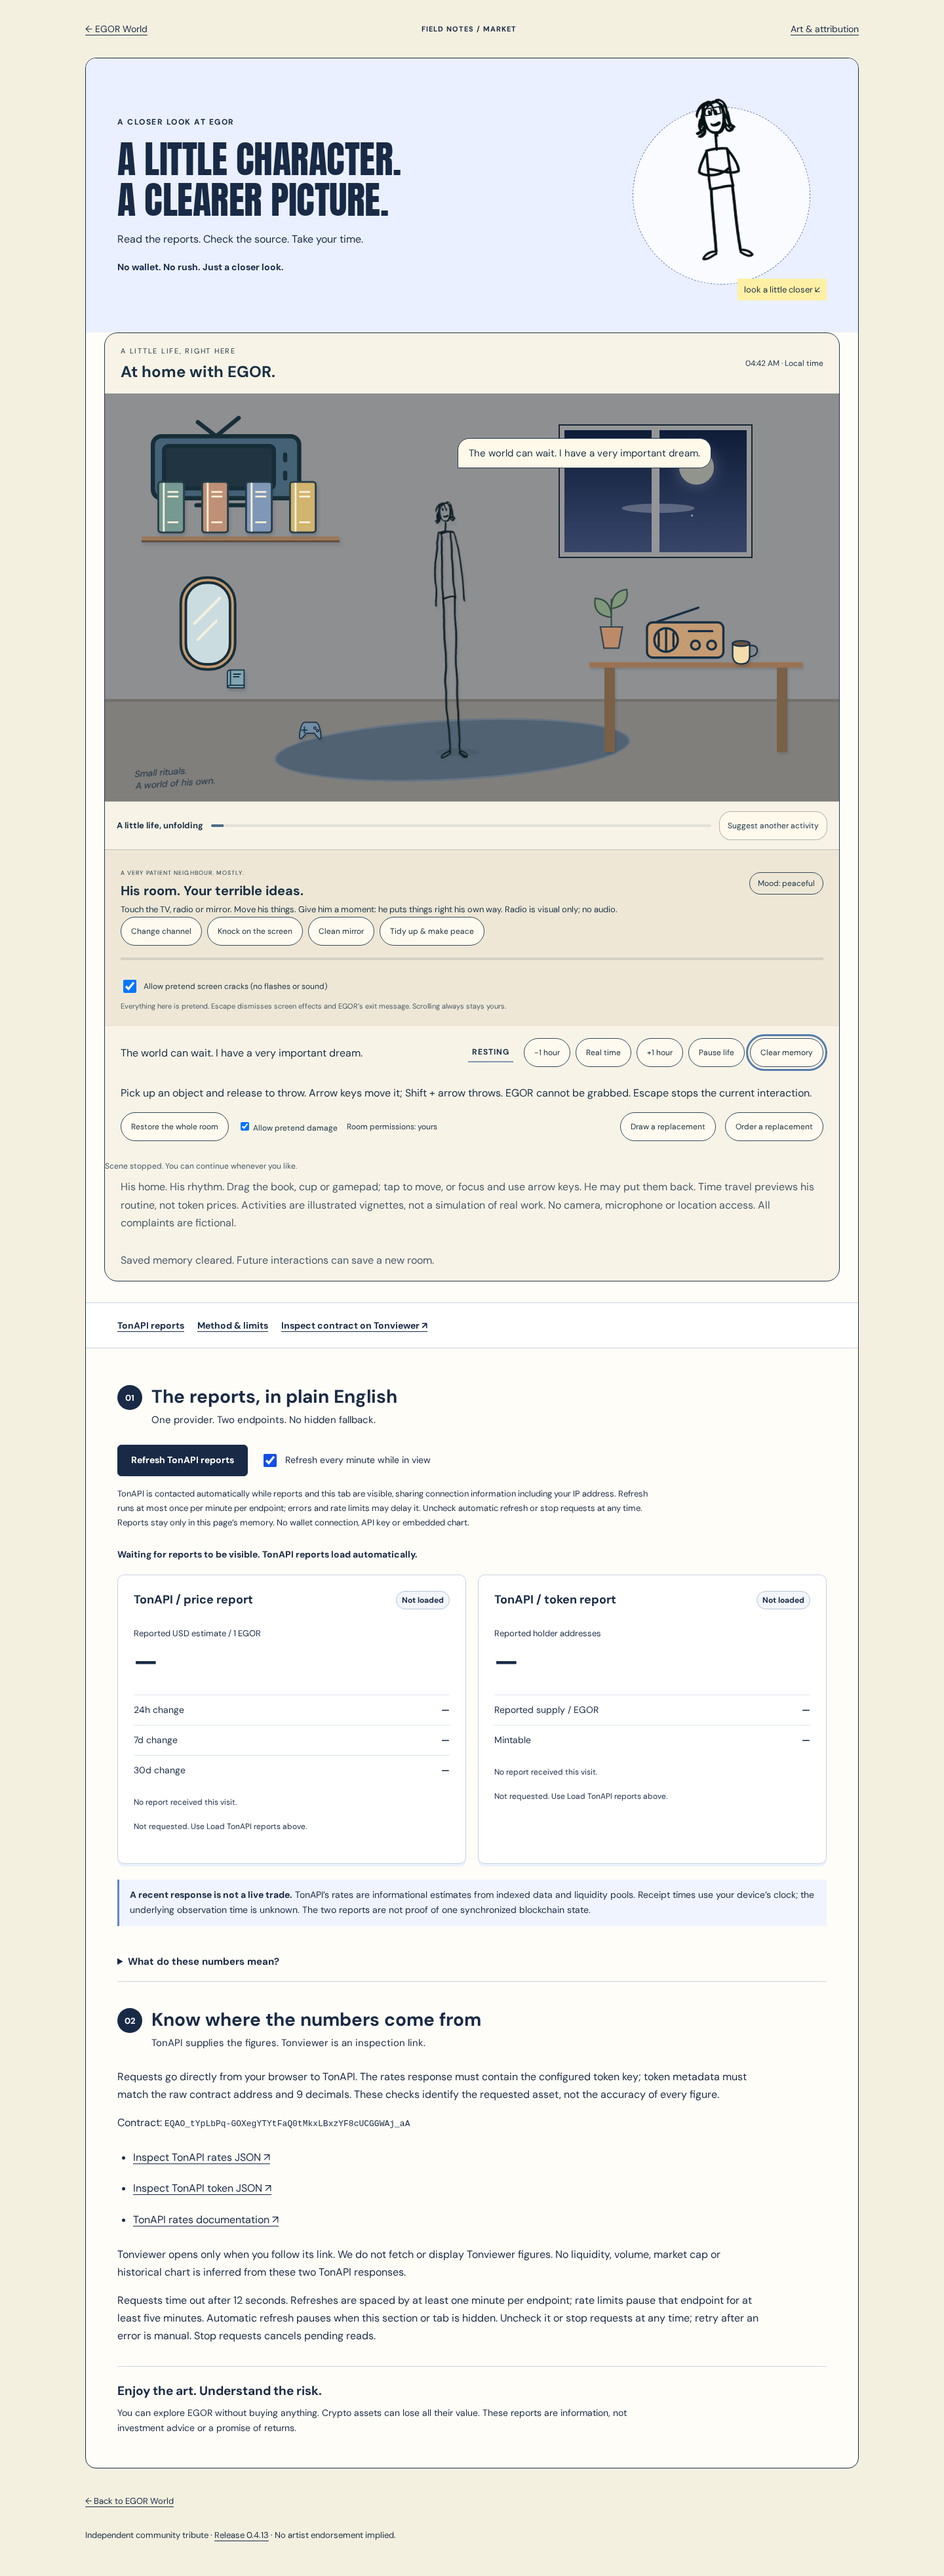
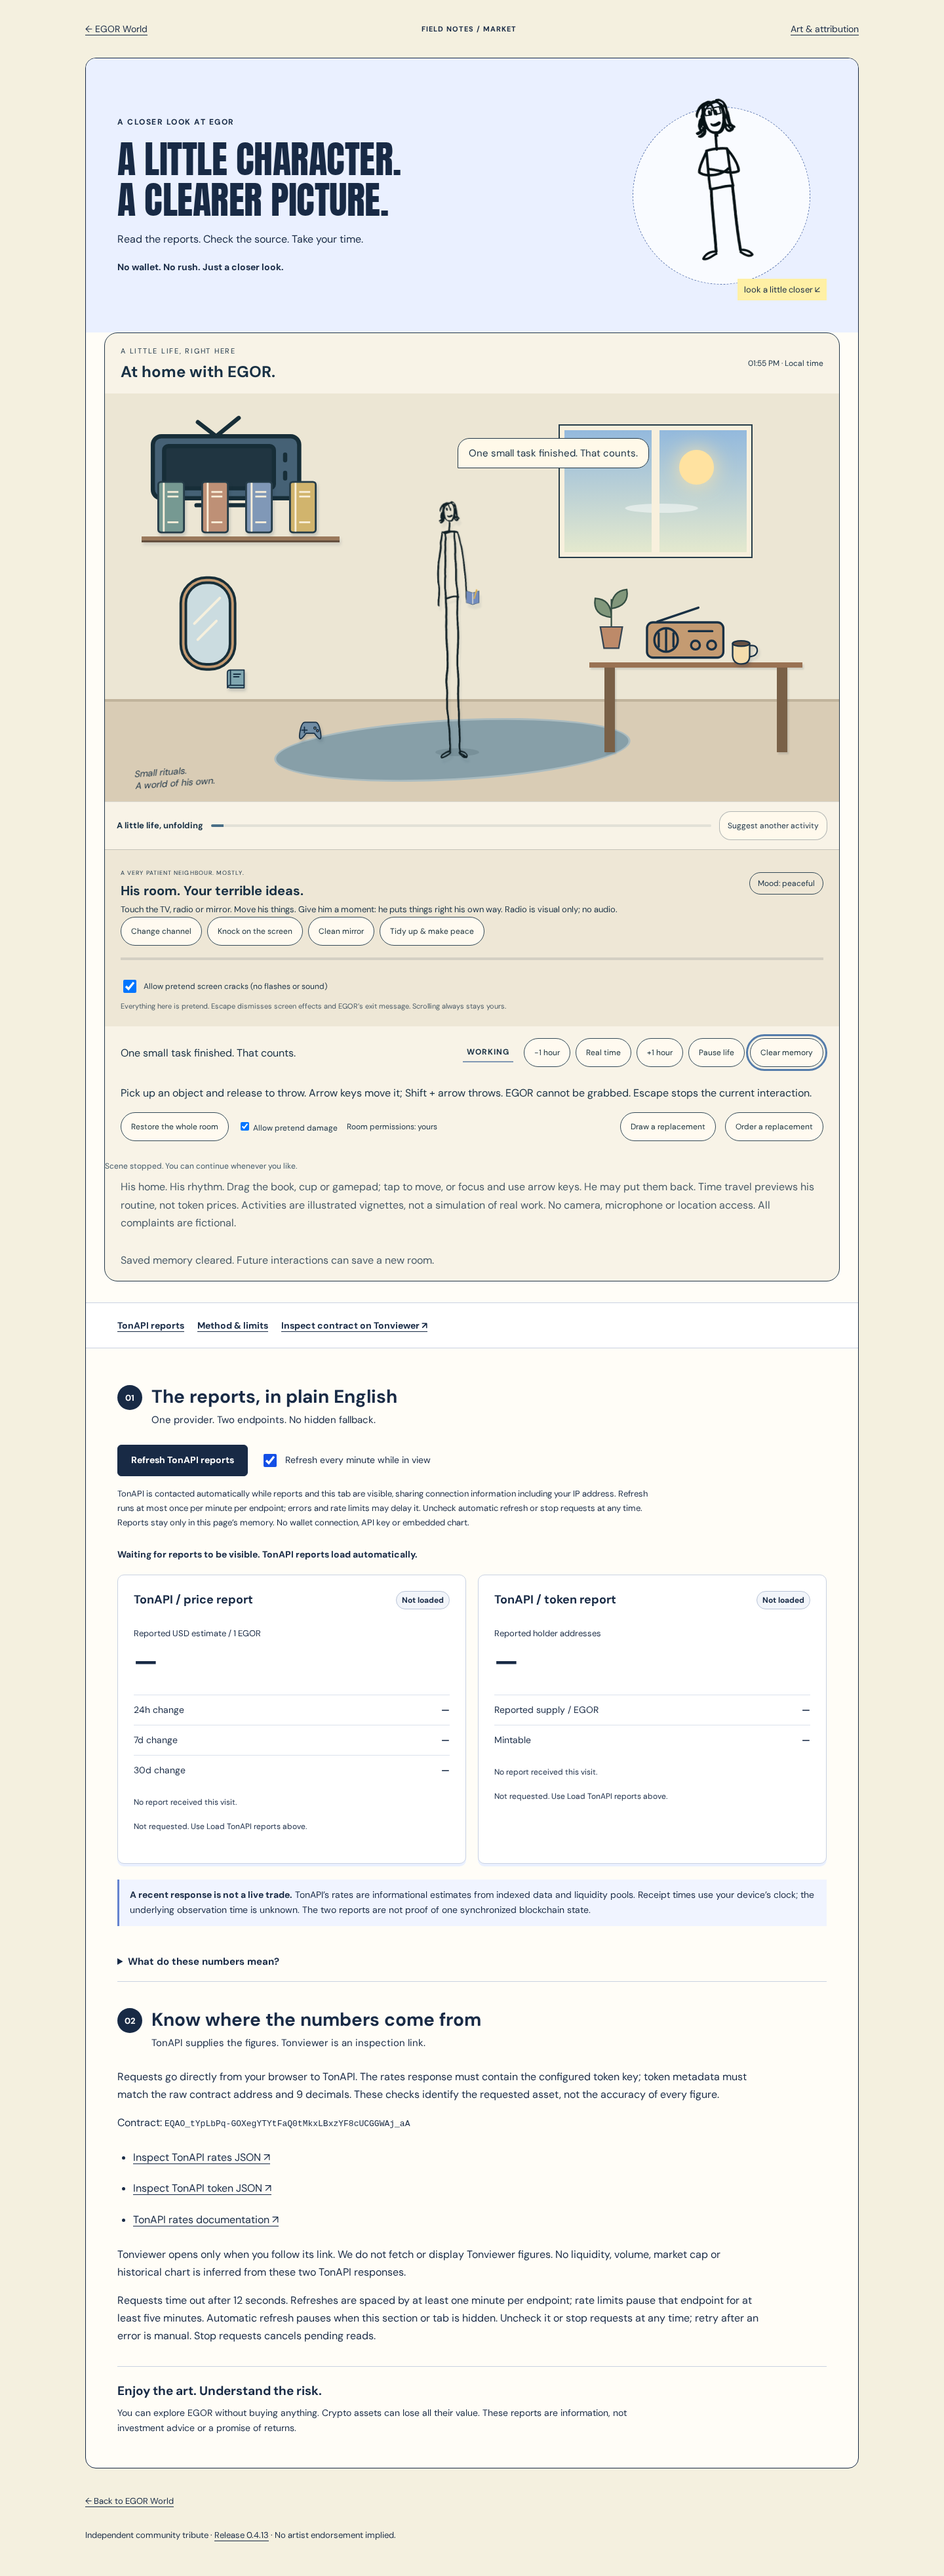
0.4.30

Changed region(s): [[0.0938, 0.1242, 0.9062, 0.3106]]

diff --git a/index.html b/index.html
@@ -110,7 +110,7 @@ dialog{width:min(520px,calc(100% - 32px));max-height:calc(100dvh - 40px);padding
 <script src="water.js" defer></script>
 <script src="wake.js" defer></script>
 <script src="idle.js" defer></script>
-<link rel="stylesheet" href="welcome.css?v=0.4.6">
+<link rel="stylesheet" href="welcome.css?v=0.4.30">
 <link rel="stylesheet" href="scenes.css?v=0.4.6">
 <link rel="stylesheet" href="market.css?v=0.4.9">
 <link rel="stylesheet" href="release.css?v=0.4.3">
@@ -144,7 +144,7 @@ dialog{width:min(520px,calc(100% - 32px));max-height:calc(100dvh - 40px);padding
 <main id="main">
 <section class="hero welcome paper" aria-labelledby="hero-heading" data-water-static><div class="wrap">
  <div class="welcome-grid">
-  <div class="welcome-copy"><p class="eyebrow">EGOR / A little blue corner</p><h1 id="hero-heading">The world is<br>a little loud<br><span>Here’s a little blue</span> <span class="welcome-smile">:)</span></h1><p class="welcome-intro">Explore EGOR World: playful art, animated stickers, and a portrait maker from the independent $EGOR community on TON.</p><div class="welcome-actions"><a class="btn btn-dark" href="#world">Explore the world <span aria-hidden="true">↓</span></a><a class="btn btn-light" href="#portrait">Make something yours <span aria-hidden="true">↗</span></a></div><p class="welcome-note">No sign-up or purchase needed</p><div class="hero-socials" aria-label="EGOR community links"><a href="https://t.me/egorverseportal" target="_blank" rel="noopener noreferrer">Telegram <span aria-hidden="true">↗</span><span class="sr-only"> (opens in a new tab)</span></a><a href="https://x.com/egorverse" target="_blank" rel="noopener noreferrer">X <span aria-hidden="true">↗</span><span class="sr-only"> (opens in a new tab)</span></a></div></div>
+  <div class="welcome-copy"><p class="eyebrow">EGOR / A little blue corner</p><div class="welcome-headline"><h1 id="hero-heading">The world is<br>a little loud<br><span>Here’s a little blue</span> <span class="welcome-smile">:)</span></h1><img class="welcome-friend" src="assets/egor-seated.webp" alt="" width="640" height="640" decoding="async"></div><p class="welcome-intro">Explore EGOR World: playful art, animated stickers, and a portrait maker from the independent $EGOR community on TON.</p><div class="welcome-actions"><a class="btn btn-dark" href="#world">Explore the world <span aria-hidden="true">↓</span></a><a class="btn btn-light" href="#portrait">Make something yours <span aria-hidden="true">↗</span></a></div><p class="welcome-note">No sign-up or purchase needed</p><div class="hero-socials" aria-label="EGOR community links"><a href="https://t.me/egorverseportal" target="_blank" rel="noopener noreferrer">Telegram <span aria-hidden="true">↗</span><span class="sr-only"> (opens in a new tab)</span></a><a href="https://x.com/egorverse" target="_blank" rel="noopener noreferrer">X <span aria-hidden="true">↗</span><span class="sr-only"> (opens in a new tab)</span></a></div></div>
   <div class="hero-play"><p class="eyebrow">EGOR’s room / Stay a while</p>
 <section class="light-room" id="light-room" aria-labelledby="light-heading" data-lit="true" data-time="morning" data-water-static>
  <h2 id="light-heading" class="sr-only">Make yourself at home</h2>

diff --git a/welcome.css b/welcome.css
@@ -4,6 +4,7 @@ body,header{background:#f4f0df}
 .hero.welcome{min-height:0;overflow:hidden;background:#f4f0df}
 .welcome-grid{display:grid;grid-template-columns:1.05fr 1fr;align-items:center;gap:22px;padding:52px 0 30px}
 .welcome-copy h1{font-family:var(--font);font-size:clamp(38px,4.65vw,68px);font-weight:600;letter-spacing:-.055em;line-height:1.13;margin:22px 0}
+.welcome-friend{display:none}
 .welcome-copy h1>span:not(.welcome-smile){color:#087d97}
 .welcome-smile{white-space:nowrap;font-weight:400}
 .welcome-intro{font-size:16px;line-height:1.8;max-width:37ch}
@@ -42,6 +43,9 @@ body.motion-off .window-art *,body.page-hidden .window-art *{transition:none}
 @media(max-width:760px){
  .welcome-grid{grid-template-columns:1fr;padding:32px 0 24px;gap:16px}
  .welcome-copy h1{font-size:clamp(36px,7.8vw,54px);max-width:15ch;margin:18px 0}
+ .welcome-headline{position:relative;padding-bottom:8px}
+ .welcome-copy .welcome-headline h1{font-size:clamp(32px,6.4vw,48px);max-width:15ch;margin:18px 0;padding-right:74px}
+ .welcome-friend{display:block;position:absolute;width:clamp(140px,32vw,210px);height:auto;right:-28px;bottom:0;pointer-events:none}
  .welcome-intro{font-size:14px;max-width:36ch}
  .welcome-actions{gap:10px;margin-top:22px}
  .welcome-actions .btn{font-size:12px;padding:12px 14px}

diff --git a/QA-0.4.30.md b/QA-0.4.30.md
@@ -1,0 +1,18 @@
+# Local QA — 0.4.30
+
+Not deployed.
+
+## Changes
+- Mobile welcome headline now includes the existing seated EGOR artwork, without modifying its source image or adding animation.
+- Desktop composition and room interaction code are unchanged.
+- Added llms.txt with existing page links and explicit tribute/token limitations. This is a navigation aid, not a ranking or AI-indexing guarantee.
+- Updated welcome stylesheet URL and release metadata. Favicon changes from 0.4.29 retained.
+
+## Verification
+- Chromium homepage checks at 320, 375, 760, 768 and 1440px with reduced motion: no horizontal overflow, one H1, artwork loaded, mobile artwork above the fold (850px viewport).
+- Visually inspected 320px and 375px screenshots.
+- Existing room Chromium regression rerun: see qa-0.4.28/browser-results.json (directory name retained by the existing runner).
+- 8 mocked finish/queue/costume checks and 10 mocked position checks passed separately.
+- External browser requests blocked; live APIs and production behavior not verified. No physical-device or cross-browser certification, new Lighthouse score, or guarantee of improved SEO.
+
+The inherited release.livingCorner notes refer to the earlier room release; this document covers the current changes. Original artwork files remain unchanged.
